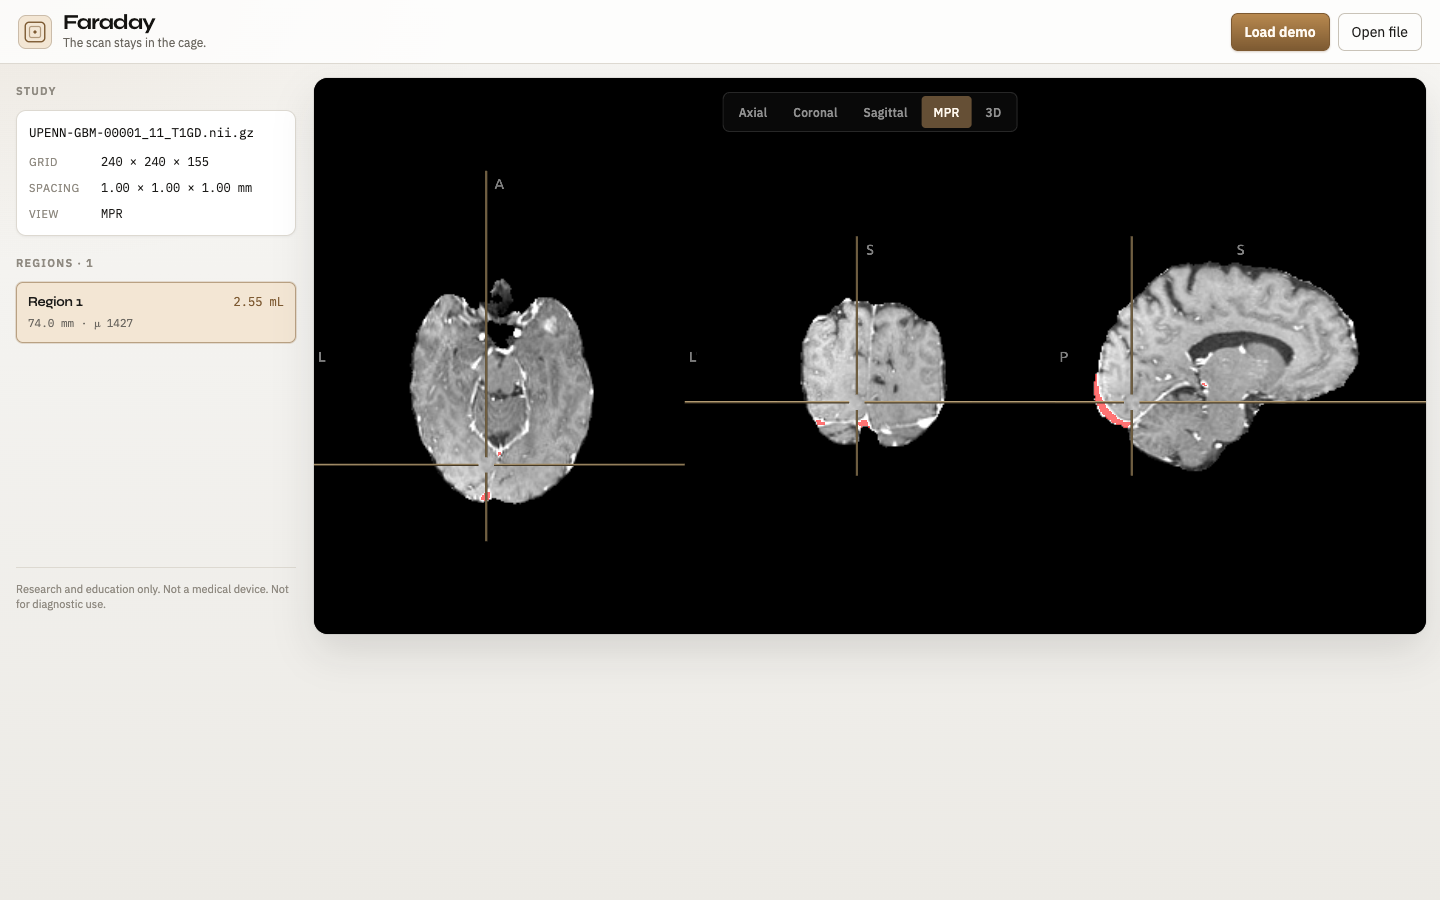
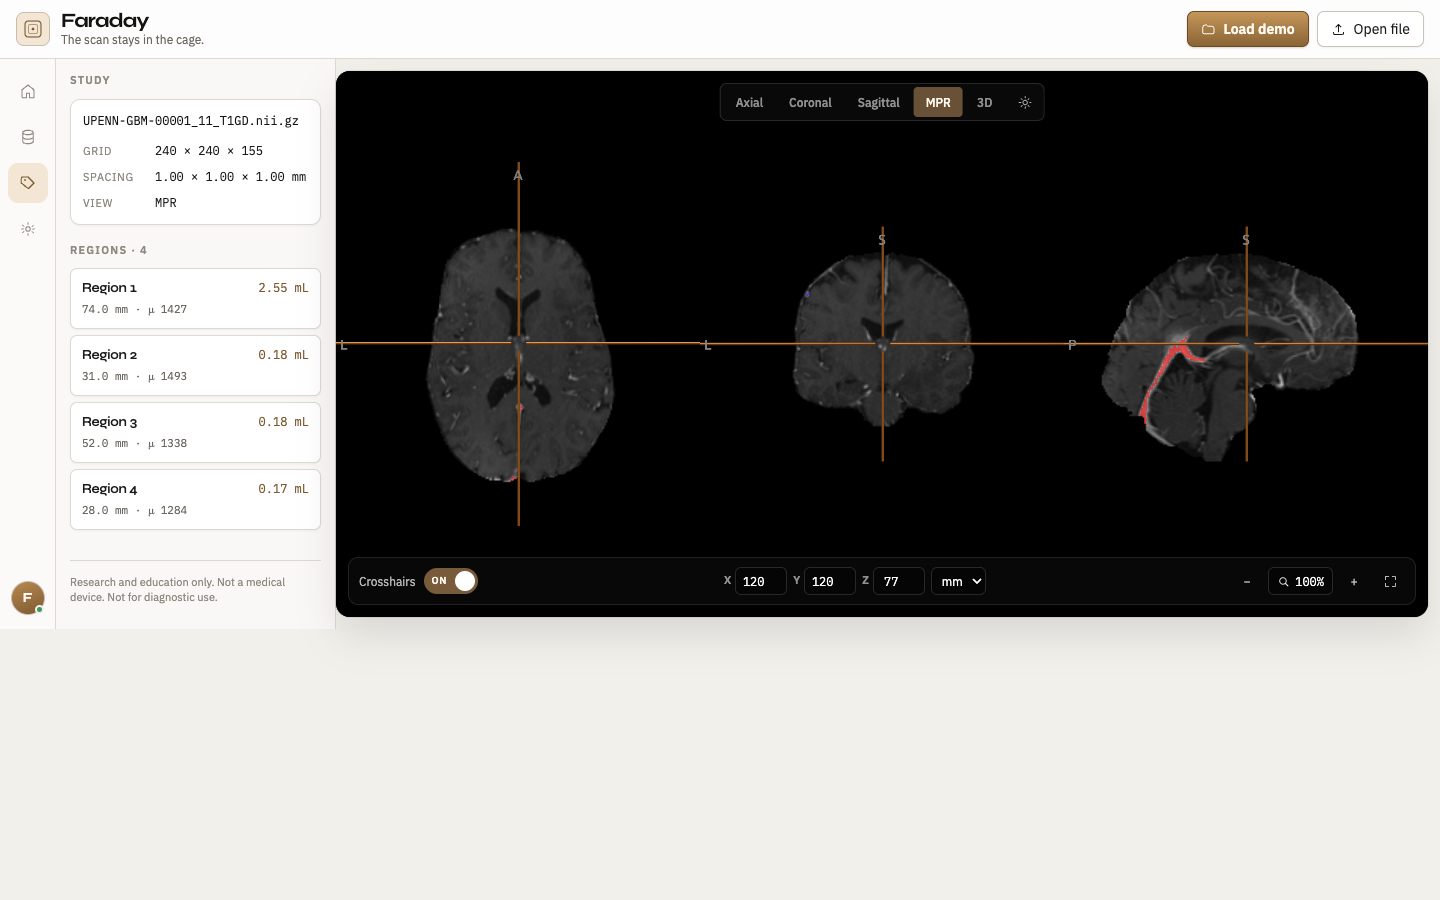
Wire window/level and refresh gallery for the clinical chrome
Sun control adjusts calMin/calMax on the loaded volume; Devpost
gallery frames now match the icon-rail reading room.

diff --git a/src/App.tsx b/src/App.tsx
@@ -75,6 +75,9 @@ function ReadingRoom() {
   const [coords, setCoords] = useState<{ x: number; y: number; z: number }>({ x: 0, y: 0, z: 0 });
   const [zoomPct, setZoomPct] = useState(100);
   const [navSection, setNavSection] = useState<"home" | "study" | "regions" | "settings">("study");
+  const [windowOpen, setWindowOpen] = useState(false);
+  const [intensitySpan, setIntensitySpan] = useState<{ min: number; max: number } | null>(null);
+  const [displayWindow, setDisplayWindow] = useState<{ min: number; max: number } | null>(null);
   const coordUnitRef = useRef<CoordUnit>("mm");
   coordUnitRef.current = coordUnit;
 
@@ -172,6 +175,9 @@ function ReadingRoom() {
     setRegions([]);
     setFocused(null);
     paintOverlay(null);
+    setWindowOpen(false);
+    setIntensitySpan(null);
+    setDisplayWindow(null);
   }, [paintOverlay]);
 
   const openUrl = useCallback(
@@ -195,8 +201,24 @@ function ReadingRoom() {
         setStudyName(snap?.name ?? name);
         setStudyMeta(snap ? { dims: snap.meta.dims, spacing: snap.meta.spacing } : null);
         setNavSection("study");
-        // Seed coords from volume centre.
         if (snap) {
+          let min = Infinity;
+          let max = -Infinity;
+          const data = snap.data;
+          // Sample for UI window defaults — full scan is fine at demo size.
+          for (let i = 0; i < data.length; i += 1) {
+            const v = data[i]!;
+            if (v < min) min = v;
+            if (v > max) max = v;
+          }
+          if (!Number.isFinite(min) || !Number.isFinite(max) || min === max) {
+            min = 0;
+            max = 1;
+          }
+          setIntensitySpan({ min, max });
+          setDisplayWindow({ min, max });
+          void nv.setVolume(0, { calMin: min, calMax: max });
+
           const [nx, ny, nz] = snap.meta.dims;
           const [sx, sy, sz] = snap.meta.spacing;
           const cx = Math.floor(nx / 2);
@@ -271,6 +293,17 @@ function ReadingRoom() {
       }
       return next;
     });
+  }, []);
+
+  const applyDisplayWindow = useCallback(async (min: number, max: number) => {
+    const lo = Math.min(min, max);
+    const hi = Math.max(min, max);
+    setDisplayWindow({ min: lo, max: hi });
+    const nv = nvRef.current;
+    if (nv) {
+      await nv.setVolume(0, { calMin: lo, calMax: hi });
+      nv.drawScene();
+    }
   }, []);
 
   const applyZoom = useCallback((pct: number) => {
@@ -543,9 +576,55 @@ function ReadingRoom() {
                   </button>
                 ))}
               </div>
-              <button type="button" className="tool-icon" aria-label="Window / level" title="Window / level">
+              <button
+                type="button"
+                className={windowOpen ? "tool-icon active" : "tool-icon"}
+                aria-label="Window / level"
+                aria-expanded={windowOpen}
+                title="Window / level"
+                onClick={() => setWindowOpen((v) => !v)}
+              >
                 <IconSun />
               </button>
+              {windowOpen && intensitySpan && displayWindow ? (
+                <div className="window-popover" role="dialog" aria-label="Display window">
+                  <label>
+                    <span>Min</span>
+                    <input
+                      type="range"
+                      min={intensitySpan.min}
+                      max={intensitySpan.max}
+                      step={(intensitySpan.max - intensitySpan.min) / 256 || 1}
+                      value={displayWindow.min}
+                      onChange={(e) =>
+                        void applyDisplayWindow(Number(e.target.value), displayWindow.max)
+                      }
+                    />
+                    <em>{Math.round(displayWindow.min)}</em>
+                  </label>
+                  <label>
+                    <span>Max</span>
+                    <input
+                      type="range"
+                      min={intensitySpan.min}
+                      max={intensitySpan.max}
+                      step={(intensitySpan.max - intensitySpan.min) / 256 || 1}
+                      value={displayWindow.max}
+                      onChange={(e) =>
+                        void applyDisplayWindow(displayWindow.min, Number(e.target.value))
+                      }
+                    />
+                    <em>{Math.round(displayWindow.max)}</em>
+                  </label>
+                  <button
+                    type="button"
+                    className="window-reset"
+                    onClick={() => void applyDisplayWindow(intensitySpan.min, intensitySpan.max)}
+                  >
+                    Reset
+                  </button>
+                </div>
+              ) : null}
             </div>
           ) : null}
 

diff --git a/src/styles.css b/src/styles.css
@@ -525,6 +525,59 @@ label.btn input[type="file"] {
   box-shadow: 0 10px 30px rgb(0 0 0 / 0.35);
 }
 
+.tool-icon.active {
+  color: #fff8ee;
+  background: color-mix(in srgb, var(--copper) 55%, #222);
+}
+
+.window-popover {
+  position: absolute;
+  top: calc(100% + 8px);
+  right: 0;
+  width: 220px;
+  padding: 10px;
+  border-radius: 10px;
+  border: 1px solid rgb(255 255 255 / 0.12);
+  background: rgb(12 12 12 / 0.92);
+  backdrop-filter: blur(14px);
+  display: flex;
+  flex-direction: column;
+  gap: 8px;
+  box-shadow: 0 12px 30px rgb(0 0 0 / 0.45);
+}
+
+.window-popover label {
+  display: grid;
+  grid-template-columns: 32px 1fr 40px;
+  gap: 6px;
+  align-items: center;
+  color: rgb(255 255 255 / 0.7);
+  font-size: 11px;
+}
+
+.window-popover input[type="range"] {
+  width: 100%;
+}
+
+.window-popover em {
+  font-style: normal;
+  font-family: var(--font-mono);
+  font-size: 11px;
+  color: #fff;
+  text-align: right;
+}
+
+.window-reset {
+  appearance: none;
+  border: 1px solid rgb(255 255 255 / 0.14);
+  border-radius: 6px;
+  background: rgb(255 255 255 / 0.06);
+  color: #fff;
+  min-height: 28px;
+  cursor: pointer;
+  font-size: 12px;
+}
+
 .seg {
   display: flex;
   gap: 2px;
